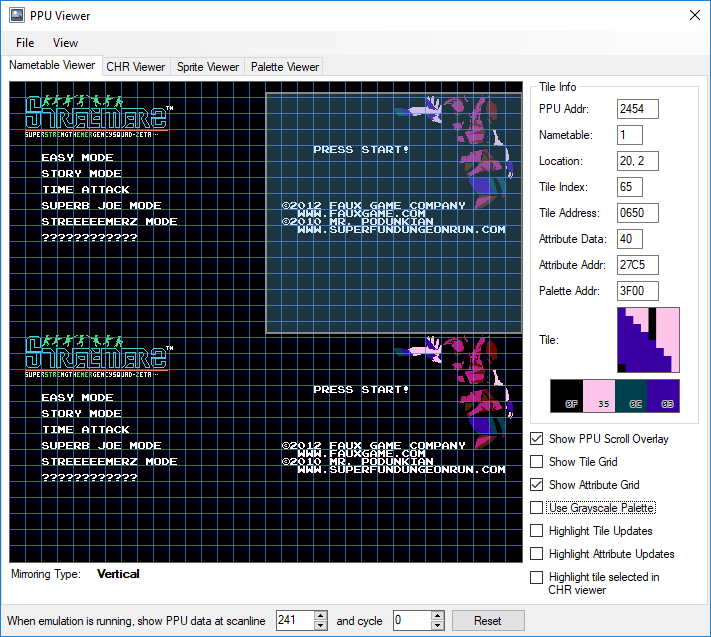
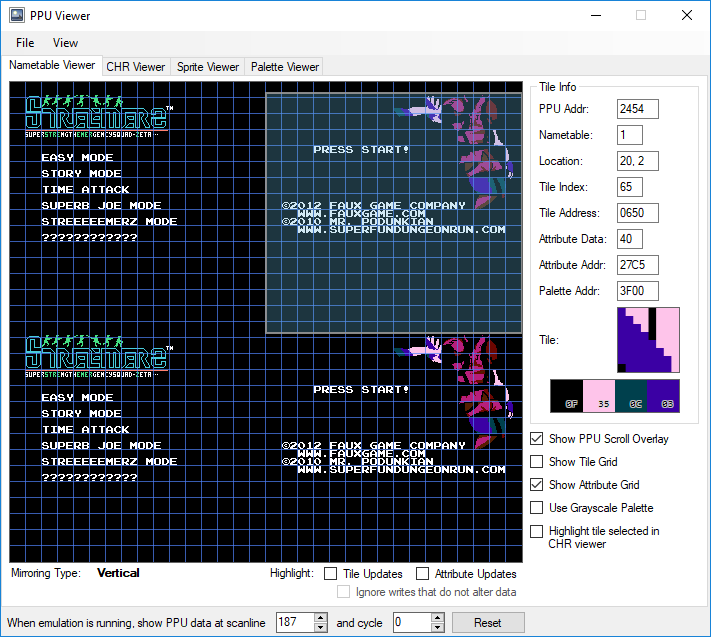
Docs: Update PPU viewer/Memory Tools documentation

diff --git a/Docs/content/debugging/PpuViewer.md b/Docs/content/debugging/PpuViewer.md
@@ -21,19 +21,31 @@ All tabs share some common settings:
 
 The nametable viewer displays the contents of all 4 nametables (PPU addresses $2000 to $2FFF).  
 Mouve-over a tile to display that tile's information on the right.
+<kbd>**Double-click**</kbd> on a tile in the nametable viewer to view/edit it in the CHR Viewer.
+
+Additionally, you can <kbd>**right-click**</kbd> on a tile to get more options:  
+
+* **Edit in Memory Viewer**: Opens up the memory tools at this specific tile's location in nametable memory.
+* **View in CHR Viewer**: Switches to the CHR Viewer and selects the tile (same as double-clicking)
+* **Copy Tile (HD Pack format)**: Copies the tile's information (text) to the clipboard (for use with [HD Packs](/hdpacks.html)).
+* **Copy image to clipboard**: Copies the nametable to the clipboard.
+* **Export image to PNG**: Exports the current nametable image to a PNG file.
+
 There are also a number of display options:
 
 * **Show PPU Scroll Overlay**: Shows a blue rectangular overlay showing the current scroll position of the screen.
 * **Show Tile Grid**: Displays a 8x8 pixels <span class="red">red</span> grid.
 * **Show Attribute Grid**: Displays a 16x16 pixels <span class="blue">blue</span> grid.
 * **Use Grayscale Palette**: Forces the nametables to be shown in a 4-color grayscale palette.
-* **Highlight Tile Updates**: Displays a 8x8 red square overlay over tiles that have changed since the last frame.
-* **Highlight Attribute Updates**: Displays a 16x16 yellow square overlay over attributes that have changed since the last frame.
 * **Highlight tile selected in CHR viewer**: When enabled, click on a tile in the CHR viewer to select it, all occurrences of that tile will then be marked by a <span class="red">red</span> rectangle in the nametable viewer. 
 
-<kbd>**Double-click**</kbd> on a tile in the nametable viewer to view/edit it in the CHR Viewer.
+### Update Highlighting ###
 
-Additionally, you can <kbd>**right-click**</kbd> on a tile to copy the tile's information to the clipboard (for use with [HD Packs](/hdpacks.html)).
+The nametable viewer can display nametable (tiles and attributes) updates by highlighting the tiles affected by the updates.
+
+* **Tile Updates**: Displays a 8x8 red square overlay over tiles that have changed since the last frame.
+* **Attribute Updates**: Displays a 16x16 yellow square overlay over attributes that have changed since the last frame.
+* **Ignore writes that do not alter data**: By default, all memory locations written to during the last frame will be highlighted. By enabling this option, only memory locations that have changed value will be highlighted.
 
 ## CHR Viewer/Editor ##
 

diff --git a/Docs/content/debugging/MemoryTools.md b/Docs/content/debugging/MemoryTools.md
@@ -26,6 +26,7 @@ The memory viewer offers read and write access to all types of ROM and RAM:
 
 * CHR ROM
 * CHR RAM
+* Nametable RAM
 * Palette RAM
 * Sprite / OAM RAM
 * Secondary OAM RAM
@@ -49,7 +50,7 @@ There are a number of highlighting/coloring options in the memory viewer.
 * Labeled bytes
 * Breakpoints
 * Code bytes *(PRG ROM only)*
-* Data bytes *(PRG ROM only)**
+* Data bytes *(PRG ROM only)*
 * DMC sample bytes *(PRG ROM only)*
 * Drawn bytes *(CHR ROM only)*
 * Read bytes *(CHR ROM only)*
